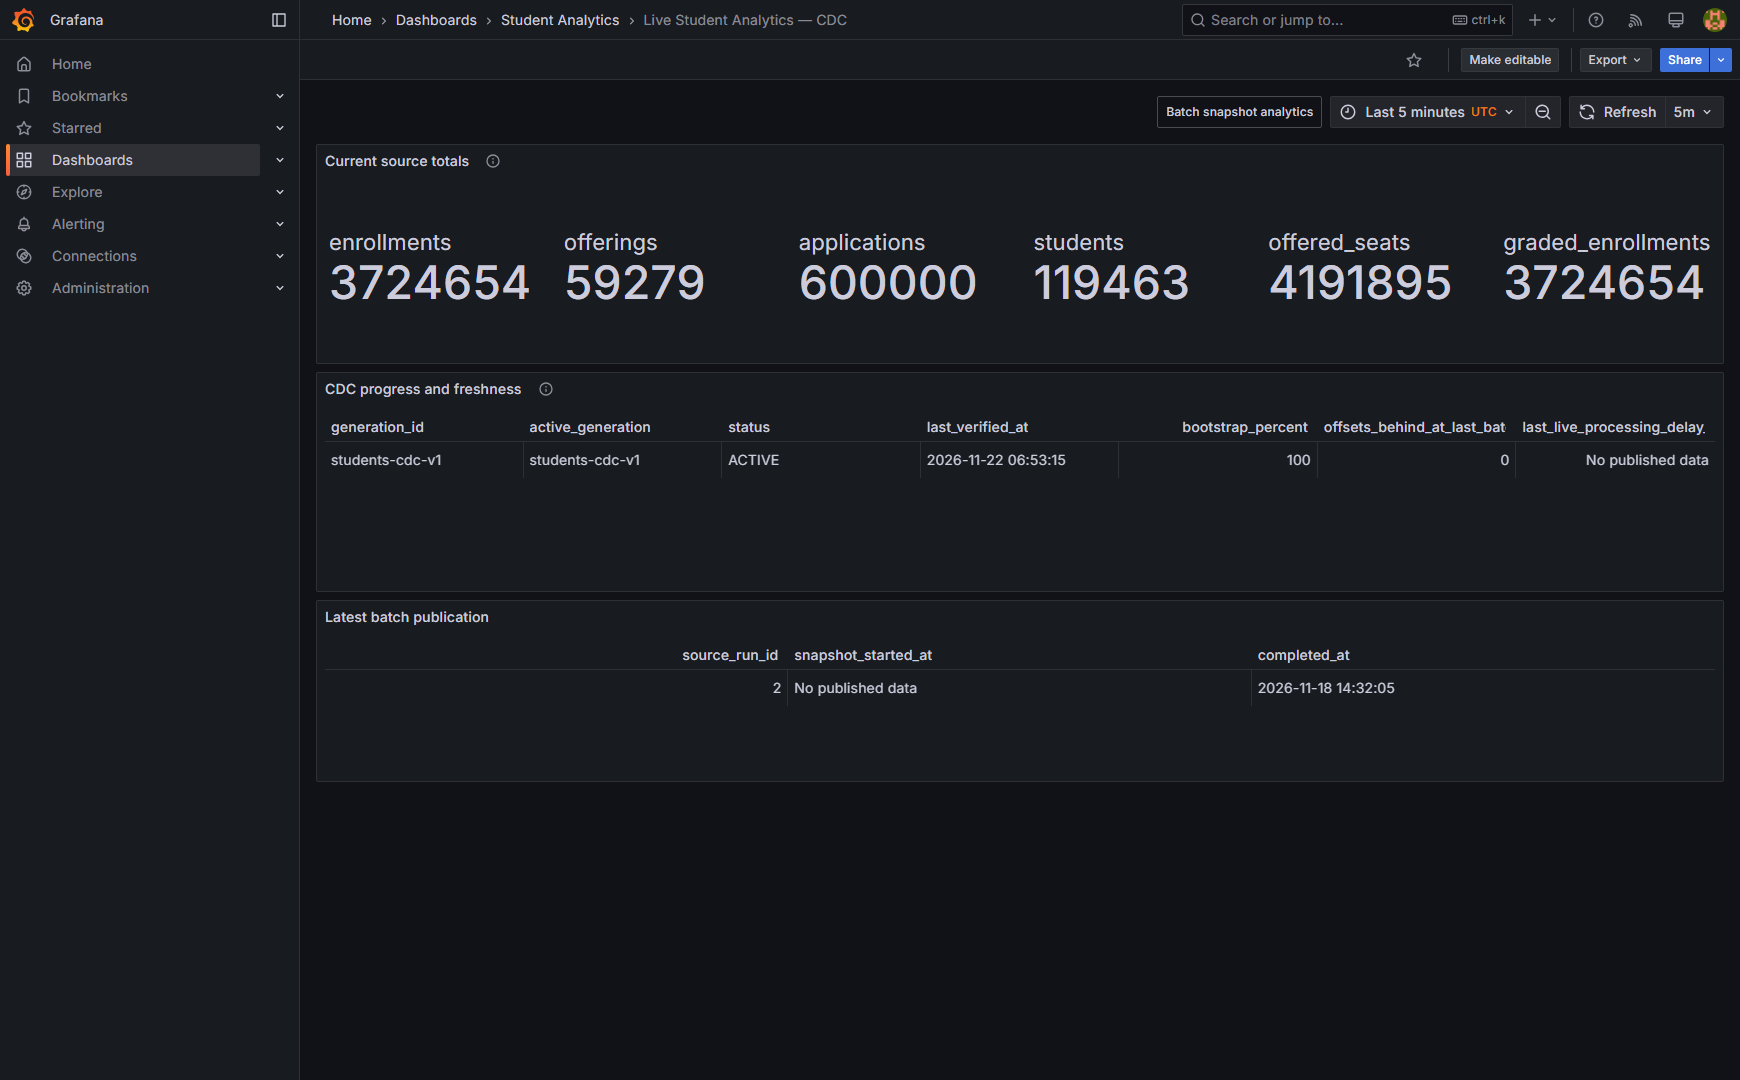
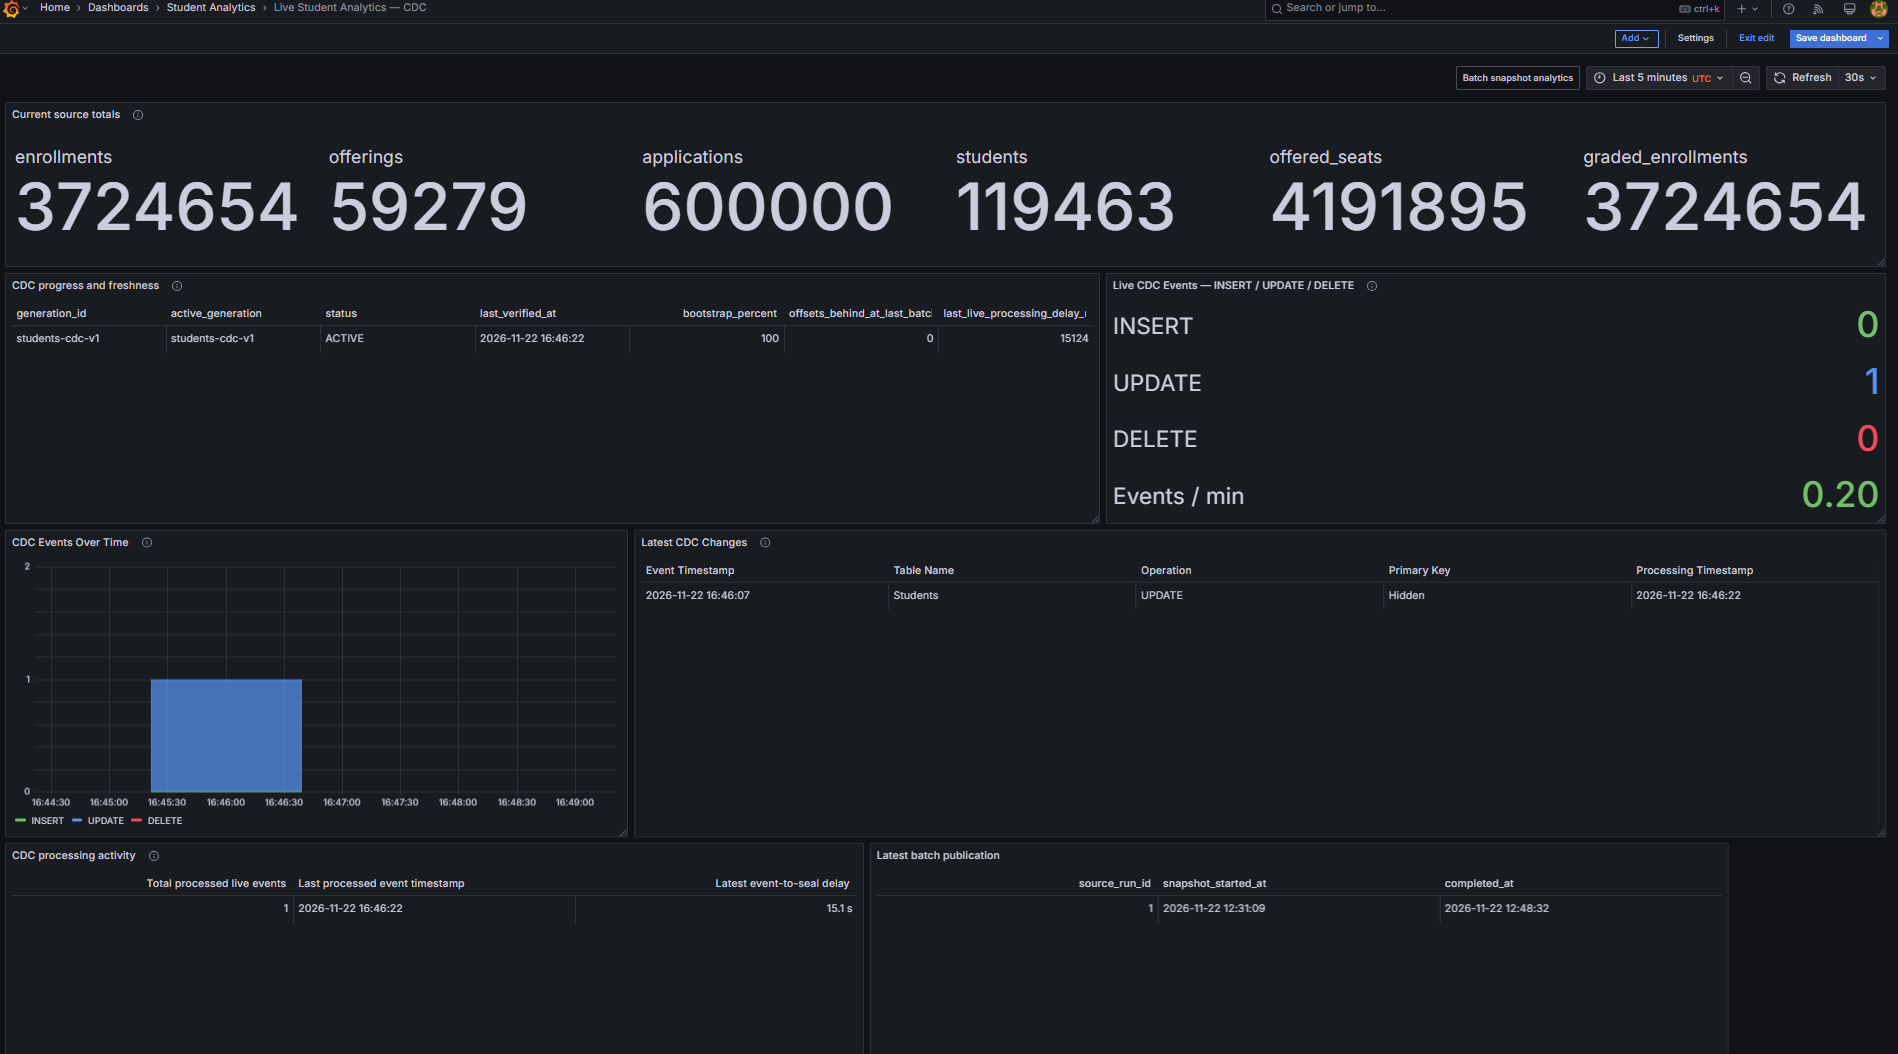
Finalized docs

diff --git a/README.md b/README.md
@@ -100,9 +100,25 @@ CDC event metrics use sealed live changes in the active generation and exclude s
 
 `make reconcile` reports signed differences as **CDC minus Batch** for the three shared measures. Equal counts support count parity at the observed boundaries. Compare timestamps and recent operations to explain a difference. [Reconciliation and quality checks](docs/04-data-pipelines/reconciliation.md) · [Tests and dated runtime evidence](docs/06-observability-and-quality/testing-and-validation.md)
 
-![Grafana showing a published CDC generation and Batch snapshot in an earlier deployment](docs/assets/screenshots/grafana-live-cdc-publication.png)
+### Batch dashboard
 
-This 22 November 2026 capture predates the live operation panels and records an earlier deployment. See the gallery for the Airflow DAG graph, source ERD and screenshot provenance. [Visual evidence](docs/assets/README.md)
+#### Enrollment overview
+
+![Grafana Batch dashboard showing enrollment totals and enrollment by term and department](docs/assets/screenshots/batch-enrollment-history.png)
+
+#### Capacity and admissions
+
+![Grafana Batch dashboard showing capacity by department and applications by status and entry term](docs/assets/screenshots/batch-capacity-admissions-history.png)
+
+#### Grade analytics
+
+![Grafana Batch dashboard showing grade coverage, grade distribution and credit-weighted grade points](docs/assets/screenshots/batch-grades-history.png)
+
+### Live CDC dashboard
+
+![Grafana CDC dashboard showing an active generation, a processed student update and Batch run 1](docs/assets/screenshots/grafana-live-cdc-publication.png)
+
+The capture shows a completed CDC bootstrap and a verified student update. The gallery also includes the Airflow DAG graph and source ERD. [Visual evidence](docs/assets/README.md)
 
 ## Limitations and recovery
 
